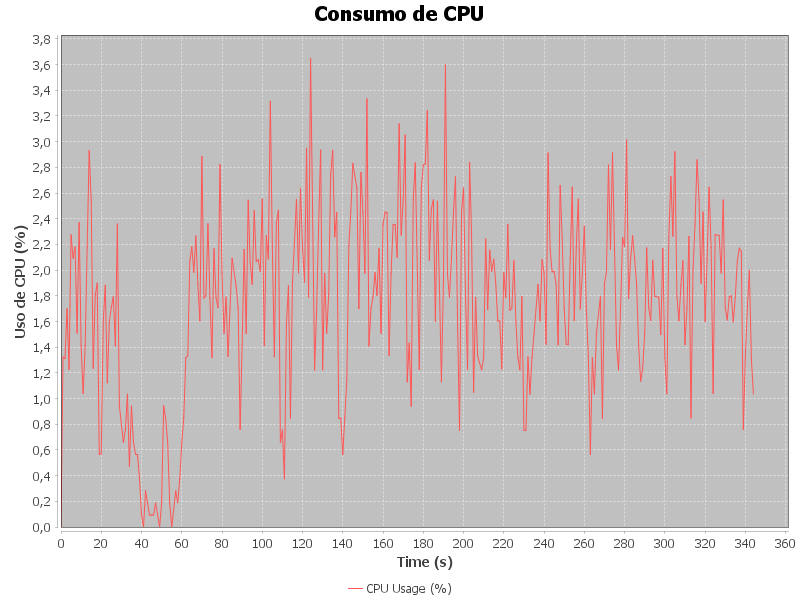
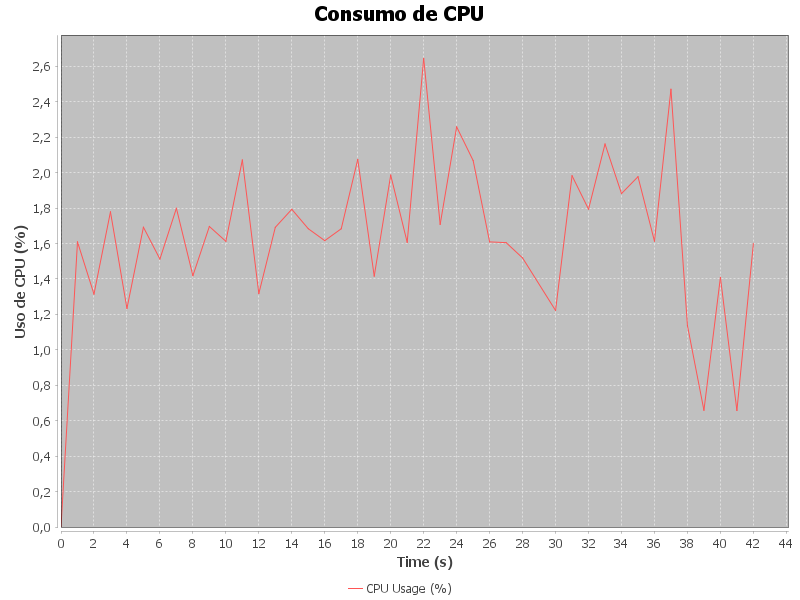
Arreglado Conflictos y tomado de tiempo todo para ExpNum

diff --git a/backend/src/main/java/com/example/backend/algorithm/AcoService.java b/backend/src/main/java/com/example/backend/algorithm/AcoService.java
@@ -379,96 +379,7 @@ public class AcoService {
         ArrayList<Tramo> mejorSolucion = generarRutaMasOptima(fechaInicio, ubicacionOficina,
                 almacenes.stream().map(Almacen::getUbicacion).collect(Collectors.toCollection(ArrayList::new)),
                 cantidadHorasLimite,true,null);
-        /*
-        System.out.println("--------------------------------------------------");
-        System.out.println("Pedido gestionado por un vehiculo de tipo " + planTransporteFinal.getVehiculo().getTipoVehiculo().getNombre());
-        System.out.println("Cantidad de paquetes transportados " + planTransporteFinal.getVehiculo().getCapacidadUtilizada());
-        System.out.println("Pedido gestionado por un vehiculo con capacidad maxima " + planTransporteFinal.getVehiculo().getCapacidadMaxima());
-        System.out.println("Listado de Tramos Registrados:");
-        */
-        /*
-        for (Tramo tramo : mejorSolucion) {
-
-            // Verificar la posibilidad de una avería durante el trayecto del tramo
-            if (Math.random() < 0.1) { // Supongamos una probabilidad del 10% de avería para cada tramo
-                TipoAveria tipoAveria = TipoAveria.values()[new Random().nextInt(TipoAveria.values().length)];
-                vehiculoSeleccionado.registrarAveria(tipoAveria, mejorSolucion.get(0).getFechaInicio());//Asignacion de averia
-
-                
-
-                if (tipoAveria == TipoAveria.T2 || tipoAveria == TipoAveria.T3) {
-                    System.out.println("Vehículo " + vehiculoSeleccionado.getCodigo() + " ha sufrido una avería de tipo: " + tipoAveria);
-                    // Replanificar la carga
-                    Vehiculo nuevoVehiculo = obtenerVehiculo(tramo.getCantidadPaquetes(),
-                            vehiculoSeleccionado.getUbicacionActual().getUbigeo());
-                    if (nuevoVehiculo != null) {
-                        System.out.println("Cargando paquetes al nuevo vehículo " + nuevoVehiculo.getCodigo());
-                        nuevoVehiculo.setCapacidadUtilizada(tramo.getCantidadPaquetes());
-                        nuevoVehiculo.setEstado(EstadoVehiculo.EnRuta);
-
-                        // Actualizar todos los tramos restantes con el nuevo vehículo
-                        for (Tramo t : mejorSolucion) {
-                            if (t.getFechaInicio().isAfter(tramo.getFechaInicio())) {
-                                t.setVehiculo(nuevoVehiculo);
-                            }
-                        }
-
-                        vehiculoSeleccionado.setEstado(EstadoVehiculo.Averiado); // Marcar el vehículo anterior como averiado
-                        vehiculoSeleccionado = nuevoVehiculo; // Actualizar el vehículo seleccionado al nuevo vehículo
-                    } else {
-                        System.out.println("No hay vehículos disponibles para continuar la ruta.");
-                        return null;
-                    }
-                }else{
-                    //si tipo Averia T1 -> se detiene por 4 horas pero luego puede continuar
-                    // Si el tipo de avería es T1 -> retrasar el recorrido por 4 horas
-                    System.out.println("Vehículo " + vehiculoSeleccionado.getCodigo() + " sufre una avería moderada (T1). Se detiene por 4 horas.");
-
-                    // Añadir 4 horas a todos los tramos posteriores
-                    for (Tramo t : mejorSolucion) {
-                        if (t.getFechaInicio().isAfter(tramo.getFechaInicio())) {
-                            // Añadir 4 horas al inicio y fin del tramo
-                            t.setFechaInicio(t.getFechaInicio().plusHours(4));
-                            t.setFechaFin(t.getFechaFin().plusHours(4));
-                        }
-                    }
-
-                }
-            }
-
-            
-            // Verificar si la fecha de fin del tramo excede la fecha de entrega estimada
-            if (tramo.getFechaFin().isAfter(pedidoIngresado.getFechaEntregaEstimada())) {
-                System.out.println("¡Colapso logístico! La fecha de entrega ha sido excedida. Fecha límite: "
-                        + pedidoIngresado.getFechaEntregaEstimada() +
-                        ", Fecha fin del tramo: " + tramo.getFechaFin());
-                // Finalizar la ejecución
-                return null;
-            }
-
-            tramo.setVehiculo(vehiculoSeleccionado);
-            tramo.setCantidadPaquetes(cantidadSolicitada);
-
-            System.out.println("--------------------------------------------------");
-            System.out.println("Ubicación Origen - ID: " + tramo.getubicacionOrigen().getId_ubicacion()
-                    + " | Ubigeo: " + tramo.getubicacionOrigen().getUbigeo());
-            System.out.println("Region Origen: " + tramo.getubicacionOrigen().getId_ubicacion()
-                    + " | Ubigeo: " + tramo.getubicacionOrigen().getRegion().getNombre());
-            System.out.println("Ubicación Destino - ID: " + tramo.getubicacionDestino().getId_ubicacion()
-                    + " | Ubigeo: " + tramo.getubicacionDestino().getUbigeo());
-            System.out.println("Region Destino: " + tramo.getubicacionOrigen().getId_ubicacion()
-                    + " | Ubigeo: " + tramo.getubicacionDestino().getRegion().getNombre());
-            System.out.println("Distancia: " + tramo.getDistancia() + " km");
-            System.out.println("Velocidad: " + tramo.getVelocidad() + " km/h");
-            System.out.println("Fecha Inicio Recorrido: " + tramo.getFechaInicio().getDayOfMonth() + "/" + tramo.getFechaInicio().getMonthValue() + "/" + tramo.getFechaInicio().getYear() + " " + tramo.getFechaInicio().getHour() + "h:" + tramo.getFechaInicio().getMinute() + "m");
-            System.out.println("Fecha Fin Recorrido: " + tramo.getFechaFin().getDayOfMonth() + "/" + tramo.getFechaFin().getMonthValue() + "/" + tramo.getFechaFin().getYear() + " " + tramo.getFechaFin().getHour() + "h:" + tramo.getFechaFin().getMinute() + "m");
-
-            //System.out.println("--------------------------------------------------");
-
-            //System.out.println("Bloqueado: " + (tramo.isBloqueado() ? "Sí" : "No"));
-
-        }
-        */
+       
         return mejorSolucion;
     }
 

diff --git a/backend/src/main/java/com/example/backend/Service/PlanTransporteService.java b/backend/src/main/java/com/example/backend/Service/PlanTransporteService.java
@@ -219,37 +219,7 @@ public class PlanTransporteService {
 
     public void imprimirRutasPlanTransporte(PlanTransporte planTransporte){
         List<Tramo>tramos = tramoService.obtenerPorPlanTransporte(planTransporte);
-        //Pedido pedidoIngresado = planTransporte.getPedido();
-        //Vehiculo vehiculoSeleccionado = planTransporte.getVehiculo();
-
-        //for (int i = 0; i < tramos.size(); i++){
         for(Tramo tramo : tramos){
-            /*
-            //Aqui se debe agregar la asignacion de averias
-            Tramo tramo = tramos.get(i);
-            List<Tramo> tramosRestantes = tramos.subList(i + 1, tramos.size());
-            // Verificar la posibilidad de una avería durante el trayecto del tramo
-            if (Math.random() < 0.1) {
-                gestionarAveria(vehiculoSeleccionado, tramo, tramosRestantes);
-                if (vehiculoSeleccionado.getEstado() == EstadoVehiculo.Averiado) {
-                    // Si no se puede reasignar vehículo, finalizar la ejecución
-                    return;
-                }
-            }
-
-            // Verificar si la fecha de fin del tramo excede la fecha de entrega estimada
-            if (tramo.getFechaFin().isAfter(pedidoIngresado.getFechaEntregaEstimada())) {
-                System.out.println("¡Colapso logístico! La fecha de entrega ha sido excedida. Fecha límite: "
-                        + pedidoIngresado.getFechaEntregaEstimada() +
-                        ", Fecha fin del tramo: " + tramo.getFechaFin());
-                // Finalizar la ejecución
-                return;
-            }
-
-            tramo.setVehiculo(vehiculoSeleccionado);
-            */
-            //tramo.setCantidadPaquetes(cantidadSolicitada);
-            //Aqui termina el codigo de averias
 
             System.out.println("--------------------------------------------------------------------------------------");
             System.out.println("Ubicación Origen - ID: " + tramo.getubicacionOrigen().getId_ubicacion()
@@ -266,58 +236,6 @@ public class PlanTransporteService {
             System.out.println("Fecha Fin Recorrido: " + tramo.getFechaFin().getDayOfMonth() + "/" + tramo.getFechaFin().getMonthValue() + "/" + tramo.getFechaFin().getYear() + " " + tramo.getFechaFin().getHour() + "h:" + tramo.getFechaFin().getMinute() + "m");
         }
     }
-/*
-    // Nueva función modular para gestionar averías en PlanTransporteService
-    public void gestionarAveria(Vehiculo vehiculo, Tramo tramoActual, TipoAveria tipoAveria) {
-        LocalDateTime fechaInicioAveria = tramoActual.getFechaInicio();
-
-        switch (tipoAveria) {
-            case T1: // Avería moderada: retrasar 4 horas
-                System.out.println(
-                        "Vehículo " + vehiculo.getCodigo() + " sufrió avería moderada (T1). Se retrasa 4 horas.");
-                retrasarTramos(tramoActual, 4); // Método que retrasa el tramo 4 horas
-                break;
-
-            case T2: // Avería fuerte: el vehículo no puede continuar
-                System.out.println("Vehículo " + vehiculo.getCodigo() + " sufrió avería fuerte (T2). Se debe detener.");
-                vehiculo.setEstado(EstadoVehiculo.Averiado);
-                reasignarVehiculo(vehiculo, tramoActual); // Método para reasignar vehículo
-                break;
-
-            case T3: // Avería siniestro: el vehículo está fuera de operación por 72 horas
-                System.out.println("Vehículo " + vehiculo.getCodigo()
-                        + " sufrió siniestro (T3). Está fuera de operación por 72 horas.");
-                vehiculo.setEstado(EstadoVehiculo.Averiado);
-                // Aquí puedes actualizar lógica de replanificación o cancelación del transporte
-                break;
-
-            default:
-                break;
-        }
-    }
-
-    // Función para reasignar vehículo después de una avería grave
-    private void reasignarVehiculo(Vehiculo vehiculo, Tramo tramoActual) {
-        List<Vehiculo> vehiculosDisponibles = vehiculoService.obtenerVehiculosDisponibles();
-        if (vehiculosDisponibles.isEmpty()) {
-            System.out.println("No hay vehículos disponibles para continuar la ruta.");
-            return;
-        }
-
-        Vehiculo nuevoVehiculo = vehiculoService.obtenerVehiculo(vehiculosDisponibles,
-                tramoActual.getUbicacionOrigen().getUbigeo());
-        if (nuevoVehiculo != null) {
-            System.out.println("Reasignado nuevo vehículo: " + nuevoVehiculo.getCodigo());
-            tramoActual.setVehiculo(nuevoVehiculo);
-        }
-    }
-
-    // Función para retrasar los tramos restantes en caso de avería moderada
-    private void retrasarTramos(Tramo tramo, int horasRetraso) {
-        tramo.setFechaInicio(tramo.getFechaInicio().plusHours(horasRetraso));
-        tramo.setFechaFin(tramo.getFechaFin().plusHours(horasRetraso));
-    }
-*/
     public void actualizarCambiosEnvio(List<Tramo> tramosRuta, Pedido pedido, List<Oficina> oficinas) {
         // Obtener la oficina de destino
         Optional<Oficina> oficinaDestino = oficinaService

diff --git a/backend/src/main/java/com/example/backend/Service/SimulacionService.java b/backend/src/main/java/com/example/backend/Service/SimulacionService.java
@@ -158,6 +158,9 @@ public class SimulacionService {
         System.out.println();
         System.out.println();
         System.out.println("=============================================================INICIO DE LA SIMULACION=======================================================================================================");
+        //Desde aqui se empieza el conteno del tiempo
+        // Medir tiempo de inicio
+        long startTime = System.nanoTime();
         int contadorPedido=0;
         while(true){
             List<Pedido> pedidosPorAtender = pedidoService.obtenerPedidosEntreFechas(fechaActualSimulacion, fechaActualSimulacion.plusMinutes(minutesIncrement));
@@ -186,6 +189,10 @@ public class SimulacionService {
 
             for (Pedido pedido : pedidosAtendidos.keySet()){
                 for(PlanTransporte planTransporte : pedidosAtendidos.get(pedido)){
+                    // Aquí gestionamos averías para cada plan de transporte
+                    gestionarAverias(planTransporte);
+
+                    // Imprimir información de las rutas de cada plan de transporte
                     planTransporteService.imprimirDatosPlanTransporte(planTransporte);
                     planTransporteService.imprimirRutasPlanTransporte(planTransporte);
                 }
@@ -205,9 +212,17 @@ public class SimulacionService {
 
             if(contadorPedido>=numeroPedidos)break;
         }
+        // Medir tiempo de fin
+        long endTime = System.nanoTime();
+
+        // Calcular el tiempo total de ejecución
+        long durationInNano = endTime - startTime;
+        double durationInSeconds = (double) durationInNano / 1_000_000_000.0;
+
         System.out.println();
         System.out.println();
         System.out.println("=============================================================FIN DE LA SIMULACION==========================================================================================================");
+        System.out.println("El tiempo total de ejecución de la simulación fue: " + durationInSeconds + " segundos");
 
     }
     private void gestionarAverias(PlanTransporte planTransporte) {

diff --git a/backend/src/main/java/com/example/backend/BackendApplication.java b/backend/src/main/java/com/example/backend/BackendApplication.java
@@ -37,13 +37,12 @@ public class BackendApplication {
     }
 
 
-        */
+        
         //simulacionService.simulacionSemanal(LocalDateTime.of(2024, 4, 4, 1, 0));
-        simulacionService.atenderCantidadEspecificaPedidosDesdeFecha(LocalDateTime.of(2024, 4, 4, 1, 0),3);
-	}
+        //simulacionService.atenderCantidadEspecificaPedidosDesdeFecha(LocalDateTime.of(2024,4,4,1,0),3);
+	
     
     @Bean
-
     public WebMvcConfigurer corsConfigurer() {
         return new WebMvcConfigurer() {
             @Override
@@ -90,7 +89,8 @@ public class BackendApplication {
 
             try {
                 // Correr el algoritmo ACO
-                simulacionService.simulacionSemanal(LocalDateTime.of(2024, 4, 4, 1, 0));
+                //simulacionService.simulacionSemanal(LocalDateTime.of(2024, 4, 4, 1, 0));
+                simulacionService.atenderCantidadEspecificaPedidosDesdeFecha(LocalDateTime.of(2024, 4, 4, 1, 0), 3);
 
             } finally {
                 // Parar el monitoreo de memoria y CPU al finalizar la ejecución
